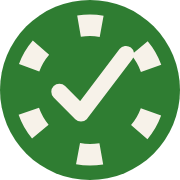
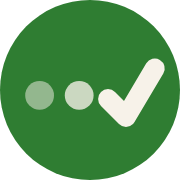
Brand refresh (tick lockups) + CTA to new bot @calleditbet_bot

diff --git a/index.html b/index.html
@@ -16,7 +16,7 @@
 <meta name="twitter:title" content="CalledIt — the AI that calls your bets">
 <meta name="twitter:description" content="Ask it anything. It checks every bookmaker, exchange and prediction market, finds the best price, and only places when you approve.">
 <meta name="twitter:image" content="https://calledit.bet/brand/calledit-og.png">
-<link rel="icon" href="/brand/calledit-mark.svg" type="image/svg+xml">
+<link rel="icon" href="/brand/calledit-icon.svg" type="image/svg+xml">
 <link rel="icon" href="/brand/calledit-favicon-32.png" sizes="32x32" type="image/png">
 <link rel="icon" href="/brand/calledit-favicon-16.png" sizes="16x16" type="image/png">
 <link rel="apple-touch-icon" href="/brand/calledit-apple-touch-180.png">
@@ -51,8 +51,10 @@
 
   /* nav */
   nav{display:flex;align-items:center;justify-content:space-between;padding:28px 0}
-  .wordmark{font-family:"Fraunces",Georgia,serif;font-weight:600;font-size:1.35rem;letter-spacing:-.01em;text-decoration:none;color:var(--ink)}
-  .wordmark span{color:var(--accent)}
+  .wordmark{display:inline-flex;align-items:center;font-family:"Fraunces",Georgia,serif;font-weight:600;font-size:1.35rem;letter-spacing:-.01em;text-decoration:none;color:var(--ink)}
+  /* The typing tick IS the full stop. Same gesture as the app icon, set as punctuation:
+     0.7em wide by 0.343em tall is the gesture's own aspect at the lockup's scale. */
+  .wordmark .tick{flex:none;width:.7em;height:.343em;display:block;margin-left:.085em;margin-bottom:.06em}
   .nav-cta{font-size:.92rem;font-weight:600;text-decoration:none;color:#fff;background:var(--pill-dark);padding:11px 22px;border-radius:999px;transition:background .15s}
   .nav-cta:hover{background:var(--pill-dark-hover)}
 
@@ -118,8 +120,15 @@
 <body>
   <div class="wrap">
     <nav>
-      <a class="wordmark" href="/">calledit<span>.</span></a>
-      <a class="nav-cta" href="https://t.me/mordecai_gamble_bot">Get early access</a>
+      <a class="wordmark" href="/" aria-label="CalledIt home">
+        <span aria-hidden="true">calledit</span>
+        <svg class="tick" viewBox="14 32.5 77.5 38" aria-hidden="true">
+          <circle cx="22" cy="53" r="8" fill="#2f7d32" opacity=".5"/>
+          <circle cx="44" cy="53" r="8" fill="#2f7d32" opacity=".78"/>
+          <path d="M60 55 L70 65 L86 38" fill="none" stroke="#2f7d32" stroke-width="11" stroke-linecap="round" stroke-linejoin="round"/>
+        </svg>
+      </a>
+      <a class="nav-cta" href="https://t.me/calleditbet_bot">Get early access</a>
     </nav>
 
     <header class="hero">
@@ -128,7 +137,7 @@
       <p class="sub">Ask it about any bet. It checks every bookmaker, exchange and prediction
       market, comes back with the best price on earth — and only places when you say so.</p>
       <div class="ctas">
-        <a class="btn btn-dark" href="https://t.me/mordecai_gamble_bot">Try it on Telegram</a>
+        <a class="btn btn-dark" href="https://t.me/calleditbet_bot">Try it on Telegram</a>
         <a class="btn btn-light" href="mailto:contact@calledit.bet">contact@calledit.bet</a>
       </div>
 

diff --git a/SOCIAL_PAGES.md b/SOCIAL_PAGES.md
@@ -1,0 +1,100 @@
+# CalledIt: X + LinkedIn company page setup pack
+
+Everything ready to paste. Assets live in `brand/` in this repo. Prepared 2026-08-13,
+after the bot rebrand to @calleditbet_bot.
+
+---
+
+## X (x.com) company account
+
+**Handle, in order of preference** (type each at signup until one is free):
+1. `@calleditbet` - matches the domain
+2. `@getcalledit`
+3. `@calleditHQ`
+
+| Field | Value |
+|---|---|
+| Display name | CalledIt |
+| Bio (160 max) | The AI that calls your bets. Ask about any game, get the best price across 40+ books, tap a prefilled betslip. 18+ · Bet responsibly · calledit.bet |
+| Location | Oradea, Romania (or leave blank) |
+| Website | https://calledit.bet |
+| Birth date (required for accounts) | use the company reg date: 27 Nov 2025 (any adult date works, needed to avoid the under-18 auto-restriction) |
+| Profile photo | `brand/calledit-avatar-512.png` |
+| Header | `brand/calledit-x-header-1500x500.png` |
+
+**Pinned first post (draft):**
+> Bets are decided in chat. Placing them is still five apps of friction.
+>
+> CalledIt is the AI that calls your bets: ask about any game, it checks 40+ bookmakers
+> and exchanges, quotes the best price, and hands you a prefilled betslip. One tap.
+>
+> Live now on Telegram → t.me/calleditbet_bot
+>
+> 18+ · bet responsibly
+
+Notes: an organic X account for a betting product is fine; X's gambling restrictions
+apply to ADS (and they require licenses per-geo). Don't run paid promotion without
+checking that policy. Turn on "professional account" only if you want analytics; skip
+the category or use "Software Company".
+
+---
+
+## LinkedIn company page
+
+Create at linkedin.com/company/setup/new (needs your personal profile as admin).
+
+**Public URL slug, in order of preference:** `calledit` · `calleditbet` · `calledit-bet`
+
+| Field | Value |
+|---|---|
+| Name | CalledIt |
+| Tagline (120 max) | The AI that calls your bets. Best price across 40+ bookmakers, one tap to a prefilled betslip. 18+ |
+| Industry | Technology, Information and Internet (alt: Software Development) |
+| Company size | 1 employee (LinkedIn's smallest bracket: "0-1" / "2-10", pick the smallest) |
+| Company type | Privately Held |
+| Founded | 2026 |
+| Website | https://calledit.bet |
+| HQ | Oradea, Bihor, Romania |
+| Logo | `brand/calledit-avatar-512.png` (LinkedIn min 300x300, square) |
+| Cover | `brand/calledit-linkedin-cover-1128x191.png` (generated from the X header) |
+| Specialties | AI, Sports Betting, Odds Aggregation, Conversational AI, Betting Affiliates, Responsible Gambling, Prediction Markets |
+
+**About section (paste):**
+> CalledIt is a chat-native AI betting copilot. A fan asks about any game in plain
+> language; CalledIt reasons over live odds from 40+ bookmakers and exchanges, in-play
+> stats, and 30 years of historical results, then answers with the best available price
+> and a prefilled betslip. One tap, and the bet is placed by the fan at the bookmaker.
+>
+> CalledIt is non-custodial by design: it never holds funds and never places bets
+> itself. Responsible-gambling guardrails are built into the conversation - per-bet and
+> daily stake caps, an explicit approval gate on every action, and a kill switch -
+> enforced before any bookmaker sees a click.
+>
+> Live today on Telegram (@calleditbet_bot). Operated by Abrudan Ventures S.R.L.
+> 18+ only. Bet responsibly.
+
+**First post (draft):**
+> We built the AI that calls your bets.
+>
+> The problem: bets are decided in group chats and placed through five apps of
+> friction, usually at a worse price than the market offers.
+>
+> CalledIt closes that gap. Ask about any game, get the best price across 40+
+> bookmakers and exchanges with the fair-probability context behind it, and tap a
+> prefilled betslip. We never touch funds; guardrails are enforced in the conversation
+> before any book sees a click.
+>
+> Live now: t.me/calleditbet_bot · calledit.bet
+> 18+ · bet responsibly
+
+---
+
+## Consistency checklist (all surfaces, same story)
+
+- Handle everywhere possible: **calleditbet** (Telegram @calleditbet_bot, Instagram
+  @calledit.bet already owned, X @calleditbet, LinkedIn /company/calledit)
+- One-liner everywhere: "The AI that calls your bets."
+- Always present: calledit.bet link, 18+, "bet responsibly", non-custodial framing
+- Never present: profit promises, "guaranteed", screenshots of winning slips without
+  context. UK CAP/ASA rules will apply to operator co-marketing later; building the
+  clean habit now costs nothing.
